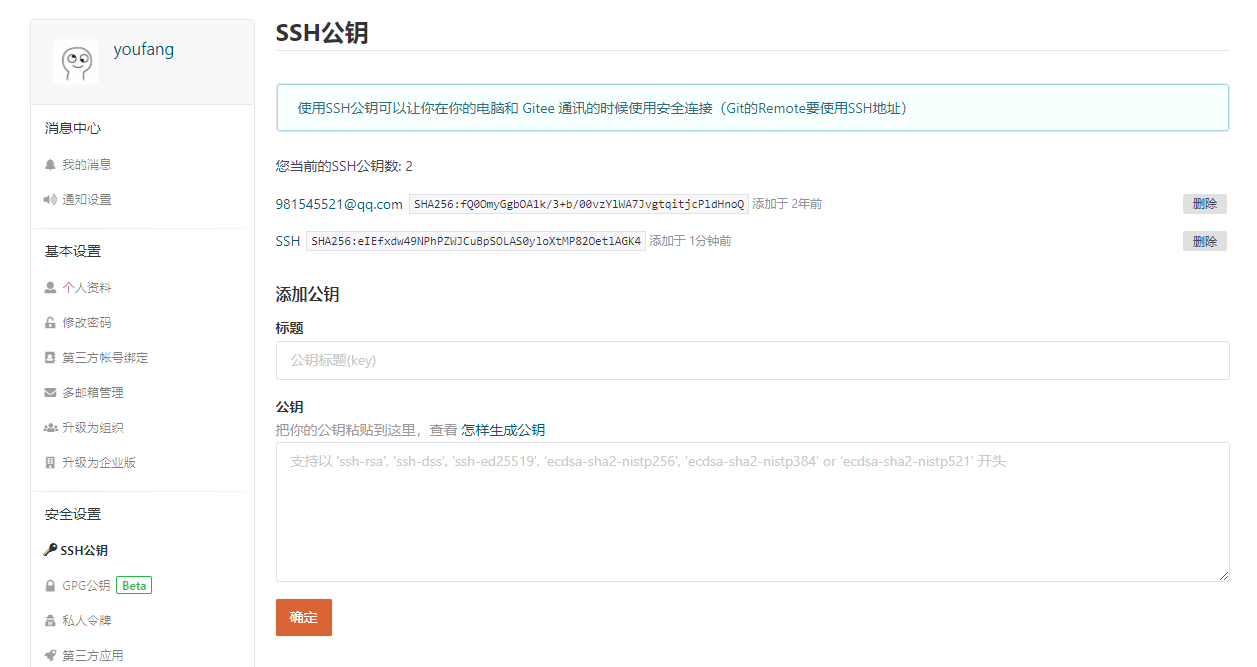
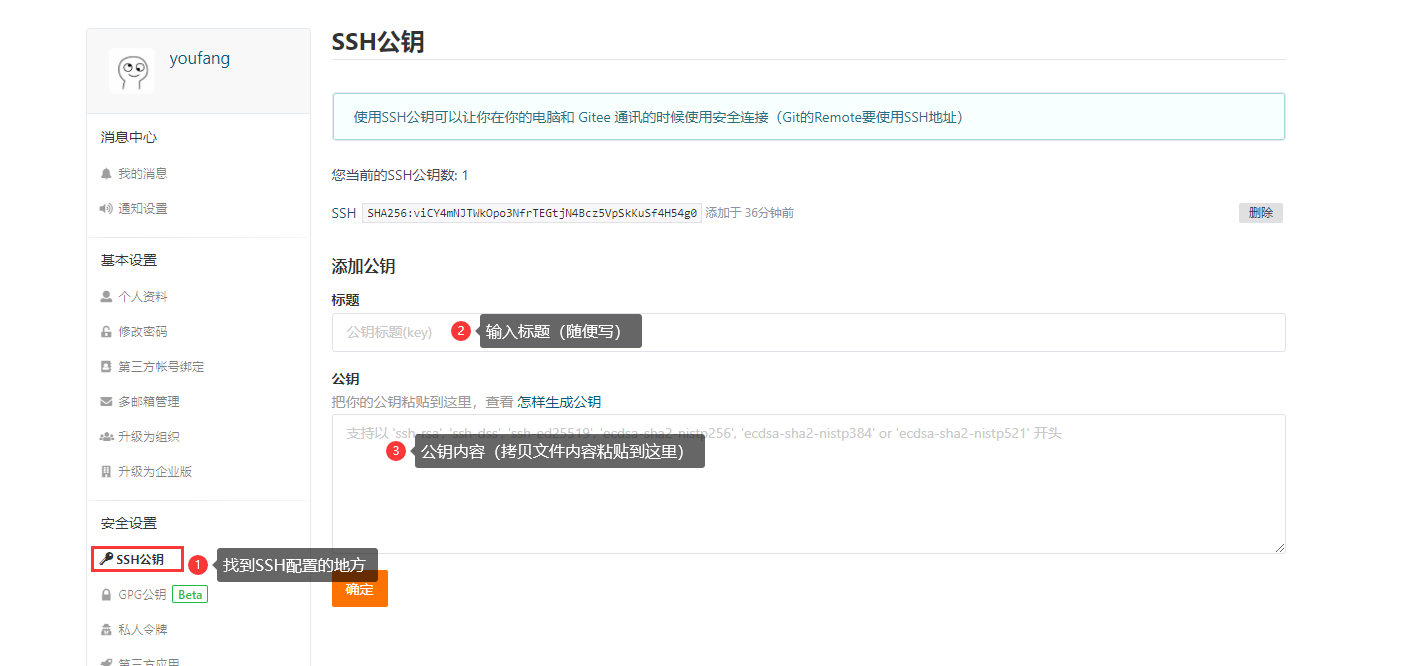
Git使用SSH

diff --git a/document/notes/IDE与辅助工具/Git使用SSH.md b/document/notes/IDE与辅助工具/Git使用SSH.md
@@ -20,7 +20,7 @@ PS C:\Users\acyou> ssh-keygen -t rsa -C "youfang@acyou.cn"
 
 ![](../../images/git_ssh1.png)
 
-## 第三步：将文件内容复制到平台
+## 第三步：将`id_rsa.pub`文件内容复制到平台
 
 ![](../../images/git_ssh2.png)
 
